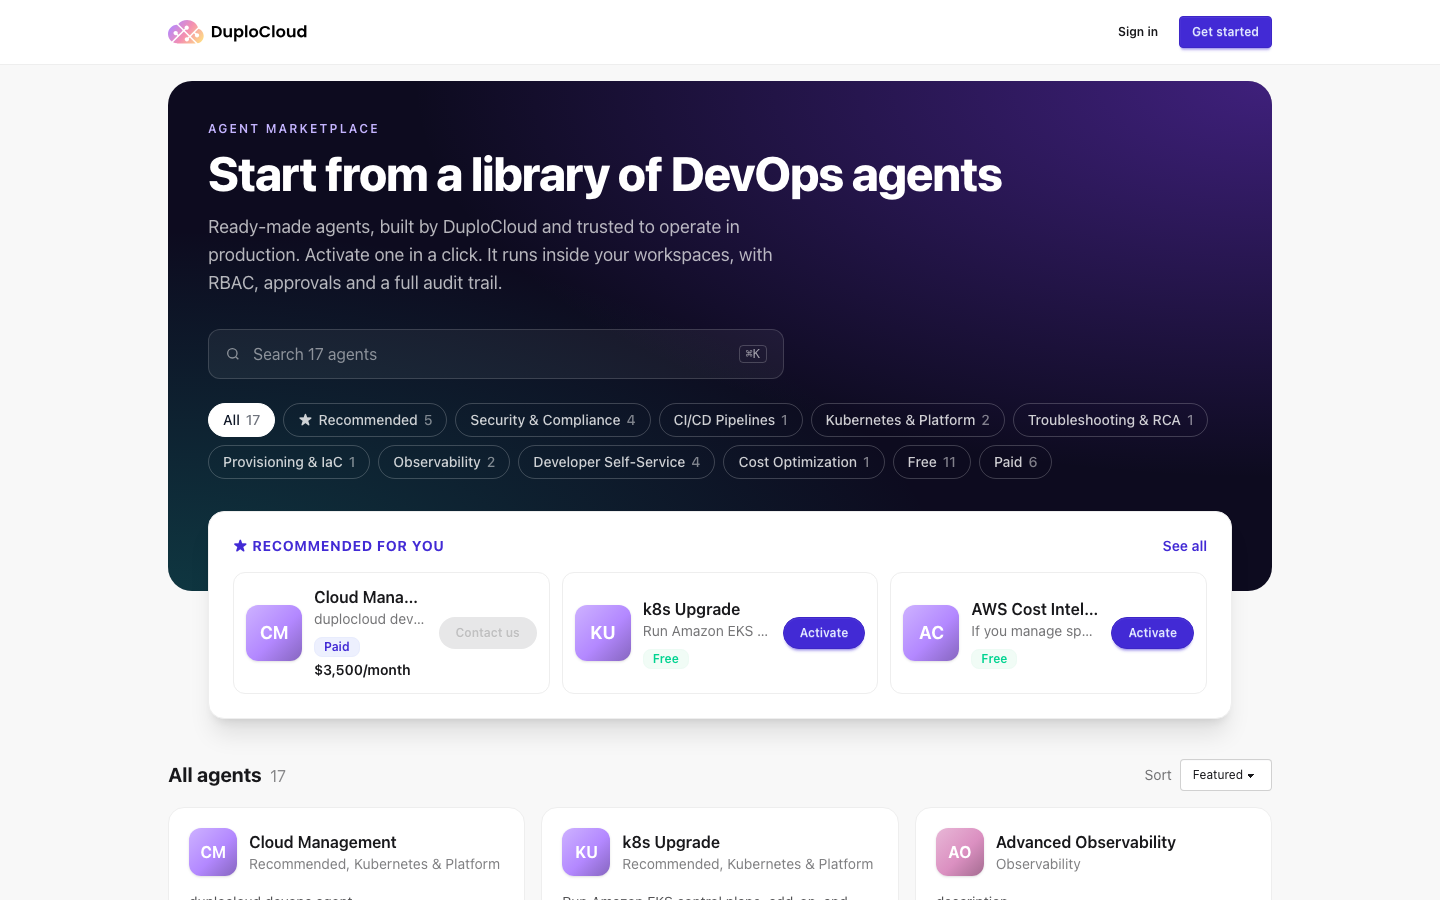
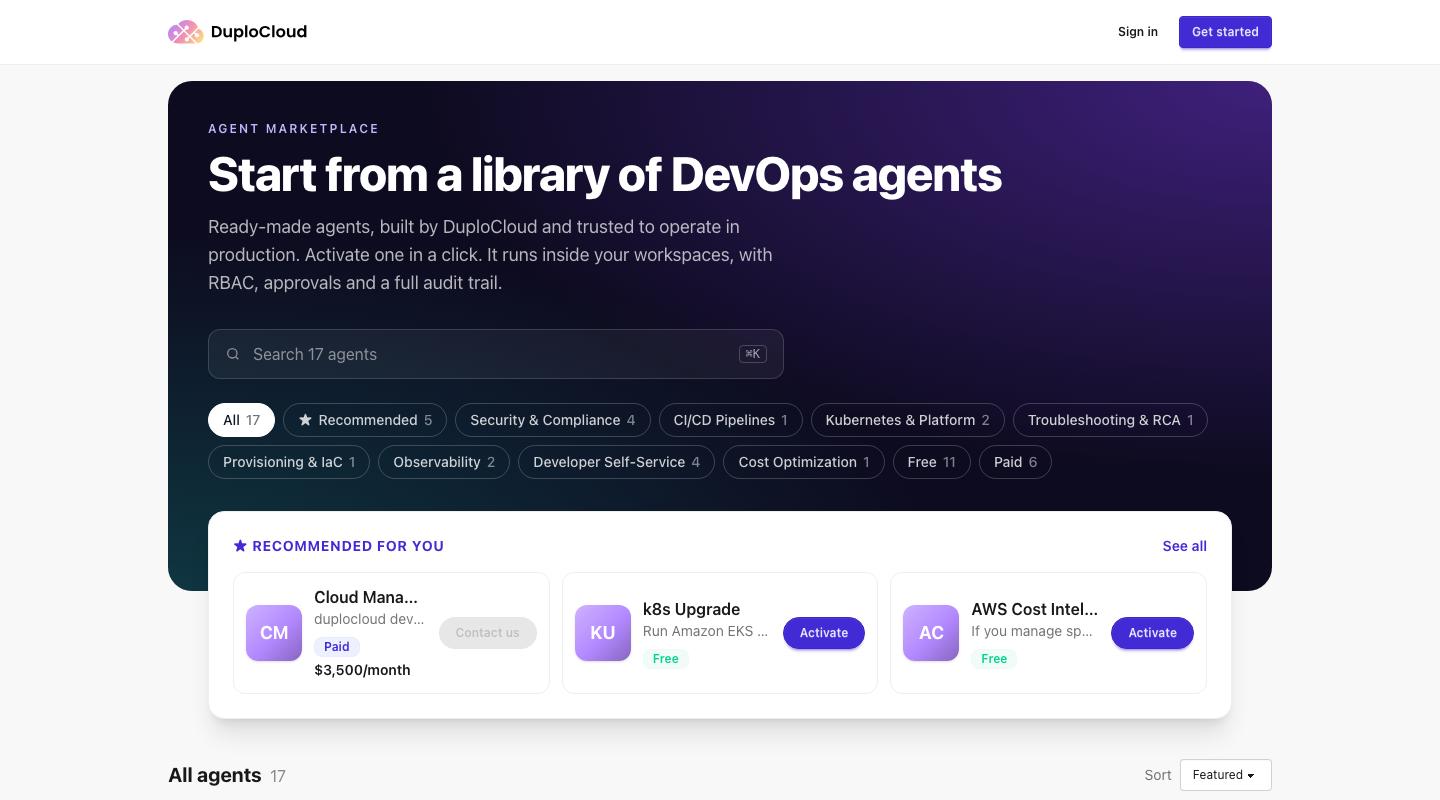
Fix broken asset refs and labels after merging SS pages
Repoints the Register screenshot to the new-portal asset, drops the
removed Library screenshot, notes the renamed labels, trims the live
marketplace shot, and removes an unverified "open-source" claim.

Changed region(s): [[0.0938, 0.0312, 0.9062, 1.0], [0.7188, 0.4375, 0.8125, 0.4688], [0.8438, 0.9688, 0.875, 1.0]]

diff --git a/getting-started/deploy-your-own-agents.md b/getting-started/deploy-your-own-agents.md
@@ -36,9 +36,9 @@ A free license limits how many agents a portal can run. The [License](licensing.
 
 {% stepper %}
 {% step %}
-### Open Extensions
+### Open the Marketplace
 
-In your portal, go to **AI Admin → Extensions** and click **Register**.
+In your portal, go to **AI Admin → Marketplace** and click **Register**. If your sidebar still says **Extensions**, you're on a release from before the Extensions → Agents rename: go to **AI Admin → Extensions** instead. The screens are the same.
 {% endstep %}
 
 {% step %}
@@ -46,11 +46,11 @@ In your portal, go to **AI Admin → Extensions** and click **Register**.
 
 Choose your `extension.zip` and click **Register**.
 
-![Register extension](../.gitbook/assets/extensions-registry-step-04-register-modal.png)
+![Register extension](../.gitbook/assets/extensions-step-05-register-modal.png)
 {% endstep %}
 {% endstepper %}
 
-The agent loads straight away and appears under **Installed Extensions**. To update it later, register a zip with a higher `version` in its `manifest.json`. For managing installed agents (disabling, deleting, and checking what each one adds), see [Agents](../armor/extensions.md).
+The agent loads straight away and appears under **Installed Extensions** (**Activated Agents** in the renamed portal). To update it later, register a zip with a higher `version` in its `manifest.json`. For managing installed agents (disabling, deleting, and checking what each one adds), see [Agents](../armor/extensions.md).
 
 ***
 
@@ -95,7 +95,6 @@ The build downloads the portal's SDK from `DUPLO_HOST`, so the portal must be re
 
 The DevKit's release workflow, `.github/workflows/release.yml`, cuts a GitHub release with `extension.zip` attached each time you bump `version` in an agent's `manifest.json` and push to `main`. Portal admins can then install and update those releases from the **Extension Library** tab under **AI Admin → Extensions**, picking a version and reading its release notes before they install.
 
-![Extension Library](../.gitbook/assets/extensions-registry-step-02-extension-library.png)
 
 The Library lists the agents named in a registry file, `registry.yaml`, held in a GitHub repository. By default your portal reads DuploCloud's registry, so DuploCloud's own agents are listed. To list your own agents, point your portal at a registry repository of your own.
 
@@ -146,6 +145,10 @@ Apply the change with a Helm upgrade.
 Go to **AI Admin → Extensions → Extension Library** and click **Refresh**. Click **Install** on your agent, pick a version, and click **Install**.
 {% endstep %}
 {% endstepper %}
+
+{% hint style="info" %}
+The **Extension Library** tab is called **Agent Marketplace** in the renamed portal, and where it reads its list from is still changing. This route describes the current release.
+{% endhint %}
 
 {% hint style="info" %}
 Pointing a portal at your own registry is read from the product's source and hasn't been tested end to end. If a release doesn't appear, check that it carries an asset named exactly `extension.zip` and that the `github` scope's token can read its repository.

diff --git a/getting-started/installation/aws-installation.md b/getting-started/installation/aws-installation.md
@@ -47,6 +47,6 @@ You can adopt an existing VPC, EKS cluster, EFS file system, S3 bucket or set of
 
 ## The Terraform behind it
 
-Cloud Deploys runs open-source Terraform modules that DuploCloud publishes. Read the module's README for the full list of resources and variables.
+Cloud Deploys runs Terraform modules that DuploCloud publishes. Read the module's README for the full list of resources and variables.
 
 TODO(link): AWS Terraform repository README (repo is being made public; master to supply the URL).
